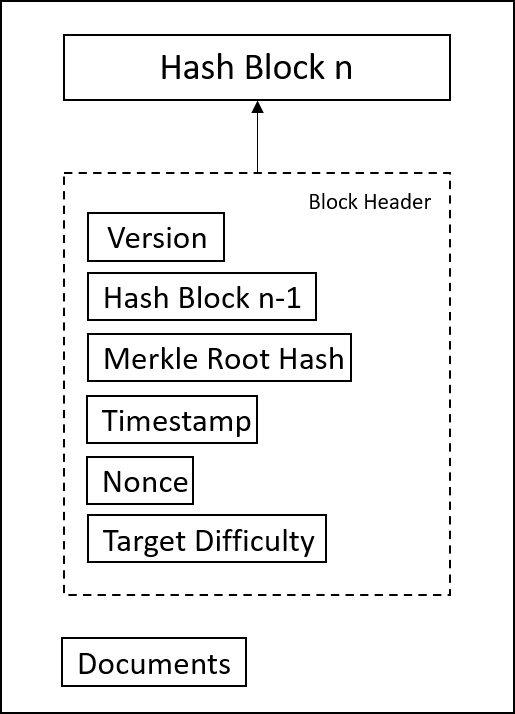
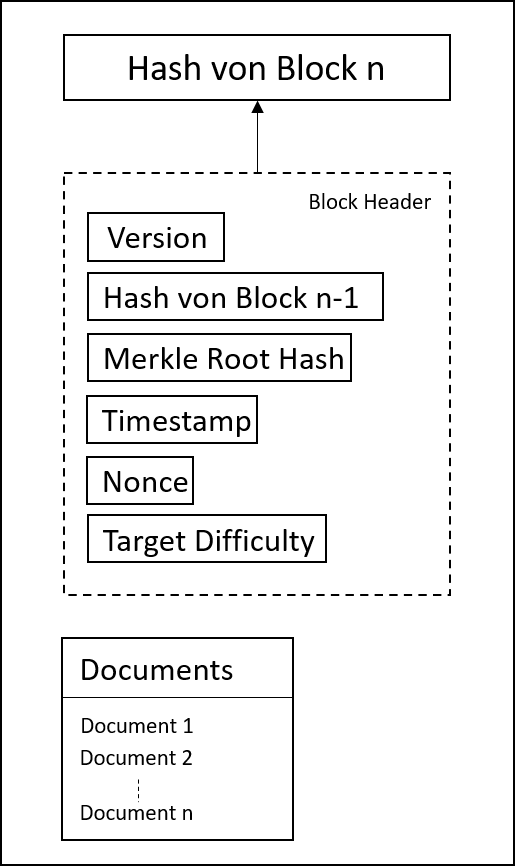
finished

diff --git a/content/06_chapter/02_Grundlagen.tex b/content/06_chapter/02_Grundlagen.tex
@@ -1,50 +1,94 @@
 \chapter{Grundlagen}
 
-Um den technischen Aufbau und die dahinterliegenden Konzepte zu verstehen und in den Zusammenhang einer Blockchain einordnen zu können, wird im folgenden Kapitel auf einige Grundlagen eingegangen, die für den weiteren Verlauf dieser Seminararbeit unabdingbar sind.
+Um den technischen Aufbau und die dahinterliegenden Konzepte zu verstehen und in den Zusammenhang einer Blockchain einordnen zu können, wird im folgenden Kapitel auf einige Grundlagen eingegangen, die für den weiteren Verlauf dieser Seminararbeit unabdingbar sind. Um den Rahmen dieser Seminararbeit nicht zu sprengen, wird vorausgesetzt, dass ein gewisses Grundverständnis bezüglich Hash-Funktionen und digitaler Signaturen vorhanden ist. Andernfalls kann dieses Grundverständnis in der zitierten Quelle \footnote{\parencite{Raikwar.2019}} aufgebaut werden.
 
-\section{Hash-Funktion}\label{sec:hash-funktion}
-Eine Hash-Funktion ist eine Funktion, die eine willkürlich lange Zeichenfolge entgegennimmt und eine Ausgabe erzeugt, die eine festgelegte Länge besitzt \footnote{\parencite[vgl.][S. 159f]{Damgard.1999}}. Ändert sich ein Zeichen des Eingabewertes, wird ein völlig unterschiedlicher Ausgabewert zurückgegeben. Dabei muss eine solche Hash-Funktion einige Eigenschaften erfüllen:
+% \section{Hash-Funktion}\label{sec:hash-funktion}
+% Eine Hash-Funktion ist eine Funktion, die eine willkürlich lange Zeichenfolge entgegennimmt und eine Ausgabe erzeugt, die eine festgelegte Länge besitzt \footnote{\parencite[vgl.][S. 159f]{Damgard.1999}}. Ändert sich ein Zeichen des Eingabewertes, wird ein völlig unterschiedlicher Ausgabewert zurückgegeben. Dabei muss eine solche Hash-Funktion einige Eigenschaften erfüllen:
 
-\begin{itemize}
-    \item Kollisionsresistenz: Es muss nahezu unmöglich sein, zwei Eingabewerte $a$ und $b$ zu finden, die unter Verwendung derselben Hash-Funktion $H(x)$ den gleichen Ausgabewert $H(a) = y$ und $H(b) = y$ erzeugen \footnote{\parencite[vgl.][S. 3]{Raikwar.2019}}.
-    \item Einwegfunktion: Für einen generierten Ausgabewert $y$ muss es nahezu unmöglich sein, einen Eingabewert $a$ zu finden, der die Gleichung $H(a) = y$ erfüllt. Ferner muss es nahezu unmöglich sein, für einen gegebenen Eingabewert $a$ und einem daraus generierten Ausgabewert $y = H(a)$ einen zweiten Eingabewert $b$ zu finden, der den Ausgabewert $y = H(b)$ erzeugt \footnote{\parencite[vgl.][S. 3]{Raikwar.2019}}.
-\end{itemize}
+% \begin{itemize}
+%     \item Kollisionsresistenz: Es muss nahezu unmöglich sein, zwei Eingabewerte $a$ und $b$ zu finden, die unter Verwendung derselben Hash-Funktion $H(x)$ den gleichen Ausgabewert $H(a) = y$ und $H(b) = y$ erzeugen \footnote{\parencite[vgl.][S. 3]{Raikwar.2019}}.
+%     \item Einwegfunktion: Für einen generierten Ausgabewert $y$ muss es nahezu unmöglich sein, einen Eingabewert $a$ zu finden, der die Gleichung $H(a) = y$ erfüllt. Ferner muss es nahezu unmöglich sein, für einen gegebenen Eingabewert $a$ und einem daraus generierten Ausgabewert $y = H(a)$ einen zweiten Eingabewert $b$ zu finden, der den Ausgabewert $y = H(b)$ erzeugt \footnote{\parencite[vgl.][S. 3]{Raikwar.2019}}.
+% \end{itemize}
 
-Solche Hash-Funktionen werden im Zusammenhang einer Blockchain dazu benutzt, um das kryptografische Rätsel beim Proof of Work von Bitcoin zu lösen, oder die privaten und öffentlichen Schlüssel der Verschlüsselung zu verwenden \footnote{\parencite[vgl.][S. 4]{Raikwar.2019}}. Wie diese Verschlüsselung genau funktioniert, wird in der nächsten Sektion erklärt.
+% Solche Hash-Funktionen werden im Zusammenhang einer Blockchain dazu benutzt, um das kryptografische Rätsel beim Proof of Work von Bitcoin zu lösen, oder die privaten und öffentlichen Schlüssel der Verschlüsselung zu verwenden \footnote{\parencite[vgl.][S. 4]{Raikwar.2019}}. Wie diese Verschlüsselung genau funktioniert, wird in der nächsten Sektion erklärt.
 
-\section{Verschlüsselung}\label{sec:verschluesselung}
-Die Verschlüsselung, die bei einer Blockchain, beziehungsweise bei Bitcoin, zugrunde liegt ist die asymmetrische Verschlüsselung. Bei dieser Art von Verschlüsselung existieren zwei verschiedene Schlüssel: der öffentliche und der private Schlüssel \footnote{\parencite[vgl.]{entwickler.de.NaN}}. Jedoch wird diese Art von Verschlüsselung nicht verwendet, um eine Transaktion oder einen Block innerhalb der Blockchain zu verschlüsseln, sondern zu signieren \footnote{\parencite[vgl.][S. 11]{Raikwar.2019}}. Wie genau diese Signierung funktioniert, kann mit dem folgenden Bild veranschaulicht werden:
+% \section{Verschlüsselung}\label{sec:verschluesselung}
+% Die Verschlüsselung, die bei einer Blockchain, beziehungsweise bei Bitcoin, zugrunde liegt ist die asymmetrische Verschlüsselung. Bei dieser Art von Verschlüsselung existieren zwei verschiedene Schlüssel: der öffentliche und der private Schlüssel \footnote{\parencite[vgl.]{entwickler.de.NaN}}. Jedoch wird diese Art von Verschlüsselung nicht verwendet, um eine Transaktion oder einen Block innerhalb der Blockchain zu verschlüsseln, sondern zu signieren \footnote{\parencite[vgl.][S. 11]{Raikwar.2019}}. Wie genau diese Signierung funktioniert, kann mit dem folgenden Bild veranschaulicht werden:
+
+% \begin{figure}[h]
+%     \begin{centering}
+%         \includegraphics[width=0.7\linewidth]{Signatur_Signer.png}
+%         \caption[Ablauf Signieren]{Ablauf Signieren \footnotemark}
+%         \label{fig:ablauf-signieren}
+%     \end{centering}
+% \end{figure}
+% \footnotetext{\parencite[vgl.][S. 11]{Raikwar.2019}}
+
+% Der Ersteller (Person A) eines Blocks oder einer Transaktion generiert ein Schlüsselpaar mit einem privaten und einem öffentlichen Schlüssel. Als erstes hasht Person A seine Transaktion und verschlüsselt diese mit seinem privaten Schlüssel. Diese signiert er mit der Signatur und versendet die signierte Transaktion, die ebenfalls den öffentlichen Schlüssel beinhaltet, an das Netzwerk \footnote{\parencite[vgl.][]{entwickler.de.NaN}}
+
+% \begin{figure}[h]
+%     \begin{centering}
+%         \includegraphics[width=1.0\linewidth]{Signatur_Verifier.png}
+%         \caption[Ablauf Verifizieren]{Ablauf Verifizieren \footnotemark}
+%         \label{fig:ablauf-verifizieren}
+%     \end{centering}
+% \end{figure}
+% \footnotetext{\parencite[vgl.][S. 11]{Raikwar.2019}}
+
+% Anschließend muss verifiziert werden, ob die Transaktion während des Übermittelns nicht verändert wurde. Wie bereits in \vref*{sec:hash-funktion} erklärt wurde, muss sich beispielsweise nur der Betrag der Transaktion verändern, damit der Hash nicht mehr mit dem originalen Hash übereinstimmt. Dafür entnimmt ein Verifizierer (Person B) einerseits den öffentlichen Schlüssel aus der signierten Transaktion und entschlüsselt die digitale Signatur, um somit den ursprünglichen Hash zu erhalten. Andererseits hasht Person B die Transaktion mit derselben Hash-Funktion, die bereits von Person A verwendet wurde. Gleichzeitig kann auch sichergestellt werden, dass die signierte Transaktion wirklich von Person A stammt, da die digitale Signatur ansonsten nicht mit dem privaten Schlüssel entschlüsselt werden könnte. Sind die beiden Hash-Werte identisch, ist die Transaktion valide. Falls nicht, wird diese verworfen \footnote{\parencite[vgl.][]{entwickler.de.NaN}}.
+
+
+
+
+
+\section{Aufbau eines Blocks}\label{sec:aufbau-eines-blocks}
+Die Datengrundlage einer Blockchain wird mit Blöcken gebildet, die Teil der Blockchain sind. Diese Blöcke verweisen einerseits auf den benachbarten Block der Chain und andererseits auf die Daten, die in diesem Block gespeichert werden können \footnote{\parencite[vgl.][S. 18]{Fill.2020b}}. Wie diese Daten genau gespeichert werden, wird in \vref*{sec:merkle-baum} beschrieben.
+ Der Aufbau eines Blocks kann mit \vref{fig:block-aufbau} erläutert werden:
 
 \begin{figure}[h]
     \begin{centering}
-        \includegraphics[width=0.7\linewidth]{Signatur_Signer.png}
-        \caption[Ablauf Signieren]{Ablauf Signieren \footnotemark}
-        \label{fig:ablauf-signieren}
+        \includegraphics[width=0.4\linewidth]{Block_Aufbau.png}
+        \caption[Aufbau eines Blocks]{Aufbau eines Blocks \footnotemark}
+        \label{fig:block-aufbau}
     \end{centering}
 \end{figure}
-\footnotetext{\parencite[vgl.][S. 11]{Raikwar.2019}}
+\footnotetext{\parencite[vgl.][S. 4]{Raikwar.2019}}
 
-Der Ersteller (Person A) eines Blocks oder einer Transaktion generiert ein Schlüsselpaar mit einem privaten und einem öffentlichen Schlüssel. Als erstes hasht Person A seine Transaktion und verschlüsselt diese mit seinem privaten Schlüssel. Diese signiert er mit der Signatur und versendet die signierte Transaktion, die ebenfalls den öffentlichen Schlüssel beinhaltet, an das Netzwerk \footnote{\parencite[vgl.][]{entwickler.de.NaN}}
+Als \textbf{Version} wird lediglich eine Version des aktuell eingesetzten Protokolls gemeint. Das Protokoll enthält Informationen über die Blockgröße, die Höhe der Belohnung eines Miners und weitere Informationen.
+Damit die Blockchain als fortlaufende Kette gespeichert werden kann, muss der aktuelle Block stets auf seinen Vorgänger referenzieren. Dieser wird als Hash im Feld \textbf{Hash Block n-1} angegeben. Durch die Referenz des vorherigen Blocks entsteht eine Verkettung der einzelnen Blöcke innerhalb der Blockchain \footnote{\parencite[vgl.][S. 137]{Bruhl.2017}}. Diese Verkettung ist in \vref*{fig:blockchain-aufbau} abgebildet. Ohne die Referenz auf den vorherigen Block könnte es keine Aneinanderreihung der Blöcke geben, somit können alle fortlaufenden Blöcke aufeinander aufbauen.
+In dem \textbf{Merkle-Root Hash} werden alle Transaktionen des Blocks in einem Hash gespeichert. Wie das umgesetzt wird, ist in \vref*{sec:merkle-baum} beschrieben. In der \textbf{Timestamp} wird er Zeitpunkt angegeben, bei dem der Block erstellt wird. Dieser Wert ist in Sekunden ab dem 1.1.1970 gespeichert.
+In der \textbf{Difficulty} wird gespeichert, wie klein der Hash des aktuell erzeugten Blocks sein muss. Um dies zu bewerkstelligen, muss ein Hash erzeugt werden, der eine gewissen Anzahl an führenden Nullen besitzt. Je kleiner die Difficulty ist, desto schwerer ist es auch, einen Hash zu finden, der das Kriterium erfüllt. 
+Da alle restlichen Komponenten des Blocks unveränderbar sind, bleibt nur noch die \textbf{Nonce} (Number only used once), um den Hash des Blocks zu beeinflussen. Sie muss von dem Miner, beschrieben in \vref*{sec:miner}, festgelegt werden, dass der erzeugte Hash den Bedingungen der Difficulty gerecht wird \footnote{\parencite[vgl.][]{Vidrih.29.12.2018}}. Wie genau der Ablauf des Minings funktioniert, wird in \vref{sec:proof-of-work} erläutert.
+
+
+
+\section{Miner}\label{sec:miner}
+Als Miner werden Teilnehmer des Blockchain-Netzwerkes bezeichnet, die Rechenleistung ihrer PCs oder anderen Geräten zur Verfügung stellen, um Daten, die in die Blockchain aufgenommen werden zu validieren - beispielsweise ob eine Person, die Bitcoins versenden will, diese auch besitzt - und diese in Blöcken zu speichern und an die bestehende Kette anzuhängen. Da für das Erstellen von neuen Blöcken Belohnungen in Form von z.B. Bitcoins vergeben werden, entsteht ein interner Wettbewerb zwischen den Minern. Dieser Wettbewer wird in \vref*{sec:proof-of-work} erläutert. Wer diesen Wettbewerb gewinnt, gewinnt auch die Belohnung.
+
+\section{Allgemeiner Aufbau}\label{sec:allgemeiner-aufbau}
+Im Allgemeinen kann eine Blockchain mit einem Datenspeicher beschrieben werden, der gleichzeitig auf mehreren Computern der am Netzwerk Teilnehmenden gespeichert ist. Die Datenstrukturen, die auf den Rechnern gespeichert werden, sind zeitlich protokolliert und somit gut nachvollziehbar und schwer veränderlich \footnote{\parencite[vgl.][]{BaFin.25.10.2021}}.
+In dem verteilten Netz kann ein Teilnehmer nun nicht nur den ersten Block der Blockchain und dessen Informationen betrachten, sondern kann wie in einem digitalen Register alle Einträge durchblättern, um Daten einzusehen, die zu einem späteren Zeitpunkt in der Blockchain gespeichert wurden \footnote{\parencite[vgl.][S. 18]{Fill.2020}}.
+
+Durch die Verteilung der Daten auf mehrere Knoten des Netzwerks hat jeder Teilnehmer die gleiche Chance, Daten zu ergänzen oder Änderungen zu dokumentieren. Analog dazu werden Änderungen für jeden Teilnehmer ersichtlich und können im Falle von Manipulationen oder korrupten Daten sofort abgewiesen werden \footnote{\parencite[vgl][]{BaFin.25.10.2021}}.
+
+Die Tatsache, dass die Daten einer Blockchain verteilt auf das Netzwerk gespeichert sind, bringt einige Vorteile mit sich: Einerseits erhöht sich die Verfügbarkeit im Falle eines Ausfalls von einzelnen Knoten. Andererseits existiert keine zentrale Kontrollinstanz, die das Netzwerk überwacht oder Opfer eines Angriffs werden könnte \footnote{\parencite[vgl][]{BaFin.25.10.2021}}.
 
 \begin{figure}[h]
     \begin{centering}
-        \includegraphics[width=1.0\linewidth]{Signatur_Verifier.png}
-        \caption[Ablauf Verifizieren]{Ablauf Verifizieren \footnotemark}
-        \label{fig:ablauf-verifizieren}
+        \includegraphics[width=0.8\linewidth]{Blockchain_Aufbau.png}
+        \caption{Aufbau einer Blockchain}
+        \label{fig:blockchain-aufbau}
     \end{centering}
 \end{figure}
-\footnotetext{\parencite[vgl.][S. 11]{Raikwar.2019}}
 
-Anschließend muss verifiziert werden, ob die Transaktion während des Übermittelns nicht verändert wurde. Wie bereits in \vref*{sec:hash-funktion} erklärt wurde, muss sich beispielsweise nur der Betrag der Transaktion verändern, damit der Hash nicht mehr mit dem originalen Hash übereinstimmt. Dafür entnimmt ein Verifizierer (Person B) einerseits den öffentlichen Schlüssel aus der signierten Transaktion und entschlüsselt die digitale Signatur, um somit den ursprünglichen Hash zu erhalten. Andererseits hasht Person B die Transaktion mit derselben Hash-Funktion, die bereits von Person A verwendet wurde. Gleichzeitig kann auch sichergestellt werden, dass die signierte Transaktion wirklich von Person A stammt, da die digitale Signatur ansonsten nicht mit dem privaten Schlüssel entschlüsselt werden könnte. Sind die beiden Hash-Werte identisch, ist die Transaktion valide. Falls nicht, wird diese verworfen \footnote{\parencite[vgl.][]{entwickler.de.NaN}}.
+
 
 \section{Merkle-Baum}\label{sec:merkle-baum}
 Jeder Block in einer Blockchain besteht unter anderem aus mehreren neuen Transaktionen oder Dokumenten, die in einem separaten Teil innerhalb des Blocks gespeichert werden. Alle Informationen über die Daten werden dabei nicht direkt im Header des Blocks, sondern in einen sogenannten Merkle-Hash gespeichert \footnote{\parencite[vgl.][S. 137]{Bruhl.2017}}.
 
-Um einen solchen Hashwert zu erhalten, werden jeweils zwei benachbarte Kopien von den Daten auf der untersten Ebene des Merkle-Baums zusammengefasst und gehasht. In der nächsten Ebene werden erneut die benachbarten Hashes zu einem Hash zusammengefasst, bis sich der endgültige Merkle-Hash ergibt \footnote{\parencite[vgl.][S. 8f]{Fill.2020}}.
+Um einen solchen Hashwert zu erhalten, werden jeweils zwei benachbarte Kopien von den Daten auf der untersten Ebene des Merkle-Baums gemäß \cref{fig:Merkle-Baum} zusammengefasst und gehasht. In der nächsten Ebene werden erneut die benachbarten Hashes zu einem Hash zusammengefasst, bis sich der endgültige Merkle-Hash ergibt \footnote{\parencite[vgl.][S. 8f]{Fill.2020}}.
 
 Anhand von einem Merkle-Hash kann überprüft werden, ob es eine noch so kleine Änderung in einem der Dokumente gegeben hat, da eine Veränderung eines Dokuments unmittelbar eine Änderung aller damit verbundenen Hashes und des Merkle-Hash mit sich zieht. Möchte nun herausgefunden werden, ob ein Dokument nachträglich verändert wurde, müssen nicht alle Dokumente auf etwaige Veränderungen analysiert werden, sondern nur deren Hashes. Werden dabei die Hashes vor und nach der Änderung der Dokumente verglichen, kann festgestellt werden, in welchem Dokument die Änderungen vorgenommen wurden. Anhand von dieser Methode kann auch festgestellt werden, ob ein bestimmtes Dokument Teil der Merkle-Baums ist \footnote{\parencite[vgl.][S. 9ff]{Fill.2020}}.
-
-In der folgenden Abbildung ist der Aufbau eines solchen Merkle-Baums dargestellt:
 
 
 \begin{figure}[h]
@@ -57,22 +101,5 @@ In der folgenden Abbildung ist der Aufbau eines solchen Merkle-Baums dargestellt
 \footnotetext{\parencite[vgl.][S. 10]{Fill.2020}}
 
 
-\section{Aufbau eines Blocks}\label{sec:aufbau-eines-blocks}
-Wie bereits in \vref*{sec:merkle-baum} beschrieben, besteht ein Block in einer Blockchain unter anderem aus dem Merkle-Hash aller im Block befindlichen Dokumente. Ferner kann der Aufbau eines Blocks mit \vref{fig:block-aufbau} erläutert werden:
 
-
-\begin{figure}[h]
-    \begin{centering}
-        \includegraphics[width=0.4\linewidth]{Block_Aufbau.png}
-        \caption[Block Aufbau]{Block Aufbau \footnotemark}
-        \label{fig:block-aufbau}
-    \end{centering}
-\end{figure}
-\footnotetext{\parencite[vgl.][S. 4]{Raikwar.2019}}
-
-Als \textbf{Version} wird lediglich eine Version des aktuell eingesetzten Protokolls gemeint. Die Version ist für den Miner jedoch irrelevant.
-Damit die Blockchain als fortlaufende Kette gespeichert werden kann, muss der aktuelle Block stets auf seiner Vorgänger referenzieren. Dieser wird als Hash im Feld \textbf{Hash Block n-1} angegeben. Ohne diese Komponente könnte es keine Aneinanderreihung der Blöcke geben, somit können alle fortlaufenden Blöcke aufeinander aufbauen.
-In dem \textbf{Merkle-Root Hash} werden, wie bereits in \cref{sec:merkle-baum} erläutert, alle Transaktionen des Blocks in einem Hash gespeichert. In der \textbf{Timestamp} wird er Zeitpunkt angegeben, bei dem der Block erstellt wird. Dieser Wert ist in Sekunden ab dem 1.1.1970 gespeichert.
-In der \textbf{Difficulty} wird gespeichert, wie kleine der aus dem aktuell erzeugten Block sein muss. Um dies zu bewerkstelligen, muss ein Hash erzeugt werden, der eine gewissen Anzahl an führenden Nullen besitzt. Je kleiner die Difficulty ist, desto schwerer ist es auch, einen Hash zu finden, der das Kriterium erfüllt. 
-Da alle restlichen Komponenten des Blocks unveränderbar sind, bleibt nur noch die \textbf{Nonce}, um den Hash des Blocks zu beeinflussen. Sie muss von dem Miner festgelegt werden, dass der erzeugte Hash den Bedingungen der Difficulty gerecht wird \footnote{\parencite[vgl.][]{Vidrih.29.12.2018}}. Wie genau der Ablauf des Minings funktioniert, wird in \vref{sec:proof-of-work} erläutert.
 

diff --git a/content/06_chapter/03_Aufbau_Blockchain.tex b/content/06_chapter/03_Aufbau_Blockchain.tex
@@ -1,17 +1,17 @@
-\chapter{Aufbau einer Blockchain}\label{chp:aufbau-einer-blockchain}
+\chapter{Hinzufügen von neuen Blöcken}\label{chp:aufbau-einer-blockchain}
 
-\section{Allgemeiner Aufbau}\label{sec:allgemeiner-aufbau}
-Im Allgemeinen kann eine Blockchain mit einem Datenspeicher beschrieben werden, der gleichzeitig auf mehreren Computern der am Netzwerk Teilnehmenden gespeichert ist. Die Datenstrukturen, die auf den Rechnern gespeichert werden, sind zeitlich protokolliert und somit gut nachvollziehbar und schwer veränderlich \footnote{\parencite[vgl.][]{BaFin.25.10.2021}}.
+% \section{Allgemeiner Aufbau}\label{sec:allgemeiner-aufbau}
+% Im Allgemeinen kann eine Blockchain mit einem Datenspeicher beschrieben werden, der gleichzeitig auf mehreren Computern der am Netzwerk Teilnehmenden gespeichert ist. Die Datenstrukturen, die auf den Rechnern gespeichert werden, sind zeitlich protokolliert und somit gut nachvollziehbar und schwer veränderlich \footnote{\parencite[vgl.][]{BaFin.25.10.2021}}.
 
-Durch die Verteilung der Daten auf mehrere Knoten des Netzwerks hat jeder Teilnehmer die gleiche Chance, Daten zu ergänzen oder Änderungen zu dokumentieren. Analog dazu werden Änderungen für jeden Teilnehmer ersichtlich und können im Falle von Manipulationen oder korrupten Daten sofort abgewiesen werden \footnote{\parencite[vgl][]{BaFin.25.10.2021}}.
+% Durch die Verteilung der Daten auf mehrere Knoten des Netzwerks hat jeder Teilnehmer die gleiche Chance, Daten zu ergänzen oder Änderungen zu dokumentieren. Analog dazu werden Änderungen für jeden Teilnehmer ersichtlich und können im Falle von Manipulationen oder korrupten Daten sofort abgewiesen werden \footnote{\parencite[vgl][]{BaFin.25.10.2021}}.
 
-Die Tatsache, dass die Daten einer Blockchain verteilt auf das Netzwerk gespeichert sind, bringt einige Vorteile mit sich: Einerseits erhöht sich die Verfügbarkeit im Falle eines Ausfalls von einzelnen Knoten. Andererseits existiert keine zentrale Kontrollinstanz, die das Netzwerk überwacht oder Opfer eines Angriffs werden könnte \footnote{\parencite[vgl][]{BaFin.25.10.2021}}.
+% Die Tatsache, dass die Daten einer Blockchain verteilt auf das Netzwerk gespeichert sind, bringt einige Vorteile mit sich: Einerseits erhöht sich die Verfügbarkeit im Falle eines Ausfalls von einzelnen Knoten. Andererseits existiert keine zentrale Kontrollinstanz, die das Netzwerk überwacht oder Opfer eines Angriffs werden könnte \footnote{\parencite[vgl][]{BaFin.25.10.2021}}.
 
 Damit eine Blockchain fehlerfrei funktionieren kann, muss innerhalb des Netzwerks und zwischen den Teilnehmern ein Konsens-Algorithmus angewandt werden, der dazu beiträgt, dass alle Teilnehmer des Blockchain-Netzwerkes die gleichen Daten auf ihren Rechnern gespeichert haben. Der Konsens in einer Blockchain ist somit eine entscheidende Komponente innerhalb des Blockchain-Netzwerks, um die gespeicherten Daten in Form eines dezentralen Datenspeichers zu halten \footnote{\parencite[vgl.][S. 5]{Raikwar.2019}}. 
 
 \section{Proof-of-Work (PoW)}\label{sec:proof-of-work}
-Ein solcher Konsens-Algorithmus kann mithilfe von Proof-of-Work umgesetzt werden. Dieser läuft so ab, dass der Miner, also derjenige, der für die Erstellung eines neuen Blocks zuständig ist, eines Blocks die Nonce so auswählt, dass die Bedingung der Difficulty erfüllt ist. Wurde ein Wert gefunden, der dieses Kriterium erfüllt, kann der Block nicht mehr geändert werden, ohne eine erneute Nonce für diesen Block und alle zuvor gespeicherten Blöcke zu finden \footnote{\parencite[vgl.][S. 1546]{Bach.52018}}.
+Ein solcher Konsens-Algorithmus kann mithilfe von Proof-of-Work umgesetzt werden. Dieser läuft so ab, dass der Miner, also derjenige, der für die Erstellung eines neuen Blocks zuständig ist, die Nonce des zu erstellenden Blocks so auswählt, dass die Bedingung der Difficulty erfüllt ist. Dabei muss der Miner so lange nach einem Wert für die Nonce suchen, bis die Bedingung der Difficulty erfüllt ist. Wurde ein Wert gefunden, der dieses Kriterium erfüllt, kann der Block nicht mehr geändert werden, ohne eine erneute Nonce für diesen Block und alle zuvor gespeicherten Blöcke zu finden \footnote{\parencite[vgl.][S. 1546]{Bach.52018}}.
 
 
-Um einen Block hinzufügen zu können, muss ein Miner Transaktionen aus dem Transaction-Pool, das ist der Ort, an dem alle noch nicht getätigten Transaktionen gespeichert werden, entnehmen und in einem Block speichern. Anschließend wird ein Führer bestimmt, der durch das Lösen des kryptografischen Puzzles, also dem Finden einer geeigneten Nonce, ausgesucht wird. Hat er die Nonce gefunden, erstellt er den Block mit dem daraus erzeugten Hash und verteilt ihn im gesamten Blockchain-Netzwerk. Danach können die verbleibenden Teilnehmer der Erstellung des Blocks entweder implizit oder explizit zustimmen. Bei einer expliziten Zustimmung finden mehrere Abstimmungen statt, bei der die restlichen Teilnehmer beteiligt sind. Je nach Ausgang dieser Abstimmungen wurde der Konsens erreicht und der neu erstellte Block wird bei jedem Teilnehmer an die Blockchain angehöngt. Eine implizite Zustimmung erfolgt dann, wenn die Teilnehmer den Block akzeptieren, indem sie ihn an ihre Blockchain anhängen. Dieses Vorgehen der impliziten Zustimmung wird auch als ``Nakamoto-Konsens'' bezeichnet \footnote{\parencite[vgl.][S. 5f]{Raikwar.2019}}.
+Um einen Block hinzufügen zu können, muss ein Miner Transaktionen aus dem Transaction-Pool, das ist der Ort, an dem alle noch nicht getätigten Transaktionen gespeichert werden, entnehmen und in einem Block speichern. Diese Transaktionen werden als Merkle-Hash in dem Block gespeichert. Anschließend wird ein Führer bestimmt, der durch das Lösen des kryptografischen Puzzles, also dem Finden einer geeigneten Nonce, ausgesucht wird. Hat er die Nonce gefunden, erstellt er den Block mit dem daraus erzeugten Hash und verteilt ihn im gesamten Blockchain-Netzwerk. Danach können die verbleibenden Teilnehmer der Erstellung des Blocks entweder implizit oder explizit zustimmen. Bei einer expliziten Zustimmung finden mehrere Abstimmungen statt, bei der die restlichen Teilnehmer beteiligt sind. Je nach Ausgang dieser Abstimmungen wurde der Konsens erreicht und der neu erstellte Block wird bei jedem Teilnehmer an die Blockchain angehöngt. Eine implizite Zustimmung erfolgt dann, wenn die Teilnehmer den Block akzeptieren, indem sie ihn an ihre Blockchain anhängen. Dieses Vorgehen der impliziten Zustimmung wird auch als ``Nakamoto-Konsens'' bezeichnet \footnote{\parencite[vgl.][S. 5f]{Raikwar.2019}}.
 

diff --git a/main.tex b/main.tex
@@ -18,7 +18,7 @@
 % -- Allgemeine Informationen zur Arbeit
 \newcommand{\titel}{Technische Umsetzung einer Blockchain}
 \newcommand{\titelheader}{Technische Umsetzung einer Blockchain}
-\newcommand{\arbeit}{Seminararbeit Integrationsseminar}
+\newcommand{\arbeit}{Seminararbeit}
 
 % -- Persönliche Angaben und DHBW
 \newcommand{\vorname}{Johannes}
@@ -35,7 +35,7 @@
 \newcommand{\abgabeOrt}{Mannheim}						
 \newcommand{\abgabeDatum}{2021-11-04} 								% Datum in dem Format yyyy-mm-dd angeben
 \newcommand{\bearbeitungszeitraumBeginn}{2021-10-14} 				% Datum in dem Format yyyy-mm-dd angeben
-\newcommand{\bearbeitungszeitraumEnde}{2020-09-08} 					% Datum in dem Format yyyy-mm-dd angeben
+\newcommand{\bearbeitungszeitraumEnde}{2021-11-04} 					% Datum in dem Format yyyy-mm-dd angeben
 
 % -- Angaben zu der Ausbildungsfirma
 \newcommand{\firmaName}{SAP SE}
@@ -121,12 +121,12 @@
 	}
 
 	\listoffigures                         							% Erzeugen des Abbildungsverzeichnisses 
-	\listoftables                          							% Erzeugen des Tabellenverzeichnisses
-    \lstlistoflistings                     							% Erzeugen des Listenverzeichnisses
+	%\listoftables                          							% Erzeugen des Tabellenverzeichnisses
+    %\lstlistoflistings                     							% Erzeugen des Listenverzeichnisses
     \setcounter{savepage}{\value{page}}								% Römische Seitenzahl wird für später gespeichert
 
 	% -- Liste der zu erledigenden Punkte. Wichtig: Diese Liste muss vor der endgültigen Abgabe auskommentiert werden!
-	\listoftodos
+	%\listoftodos
     
     % -- Einbinden von den verschiedenen Kapiteln
     \cleardoublepage												% Beendet eine Seite
@@ -164,12 +164,12 @@
 	\printglossary[style=altlist,title=Glossar]						% Glossar wird erstellt
 
     % -- Einbinden von Anhängen
-    \begin{appendices}
-		\include{content/07_appendix/index}
-	\ifthenelse{\boolean{abgabeVersion}}
-	{}
-	{
-		\include{content/00_LaTeX/exampleProject/07_Appendix}
-	} 	
-    \end{appendices}
+    % \begin{appendices}
+	% 	\include{content/07_appendix/index}
+	% \ifthenelse{\boolean{abgabeVersion}}
+	% {}
+	% {
+	% 	\include{content/00_LaTeX/exampleProject/07_Appendix}
+	% } 	
+    % \end{appendices}
 \end{document}

diff --git a/content/06_chapter/04_Hinzufügen_Blöcke.tex b/content/06_chapter/04_Hinzufügen_Blöcke.tex
@@ -19,5 +19,8 @@ Jedoch muss dabei beachtet werden, dass die UTXOs nicht aufgeteilt werden könne
 
 In \vref{fig:transaktion} ist ein solches Vorgehen abgebildet. Bei der Transaktion 2 sendet die Absenderadresse 3 etwa 0.9882 BTC (1) an die Zieladresse 4. Da der UTXO 1 jedoch 0.9882 BTC beträgt und nur etwa 0.0099 BTC an die Zieladresse 4 gesendet werden soll, wird der Rest erneut als Output an die Absenderadresse 5 transferiert, welches dem Wallet entspricht, von dem der Input der Transaktion kam.
 
+\section{Ablauf einer Transaktion}\label{sec:ablauf-transaktion}
+Will nun eine Person Bitcoin versenden, wird eine Bitcoin-Adresse und ein privater sowie ein öffentlicher Schlüssel benötigt. Diese Komponenten bestehen aus einer Folge von Buchstaben und Zahlen. Im Gegensatz zu der Adresse und dem öffentlichen Schlüssel wird der private Schlüssel nicht preisgegeben \footnote{\parencite[vgl.][]{BTCACADEMY.08.03.2021b}}.
 
-\section{Locking Script und Unlocking Script}\label{sec:locking-unlocking}
+Nun wird die Transaktion mit den sämtlichen Daten aus \cref{sec:bestandteile-einer-transaktion} mit dem privaten Schlüssel signiert \footnote{\parencite[vgl.][]{BTCACADEMY.08.03.2021b}}. Der Empfänger dieser Transaktion muss den UTXO bei seiner nächsten Transaktion erneut signieren, um ihn bei dieser als Input zu verwenden. Bevor er diese Signatur nicht erstellt, ist der UTXO für den Empfänger noch gesperrt. Dies wird ``Locking Script'' genannt. Erst nachdem der Empfänger den Output signiert und als Input bei einer Transaktion angibt, wird dieser für ihn entsperrt (``Unlocking Script'') und zugänglich gemacht \footnote{\parencite[vgl.][]{entwickler.de.NaN}}. Anschließend kann die in der Transaktion hinterlegte Menge an die Zieladresse transferiert werden.
+

diff --git a/content/01_titlepage/titlepage.tex b/content/01_titlepage/titlepage.tex
@@ -10,7 +10,7 @@
 			\begin{minipage}{0.49\textwidth}
 				\flushleft
 				%\missingfigure[figheight=2.5cm, figcolor=white]{Insert company %logo here} 
-				\includegraphics[height=2.5cm]{images/logos/Logo_SAP.pdf} 
+				% \includegraphics[height=2.5cm]{images/logos/Logo_SAP.pdf} 
 			\end{minipage}
 			\hfill
 			\begin{minipage}{0.49\textwidth}
@@ -50,7 +50,7 @@
 		\begin{minipage}{0.49\textwidth}
 			\flushleft
 			%\missingfigure[figheight=2.5cm, figcolor=white]{Insert company %logo here} 
-			\includegraphics[height=2.5cm]{images/logos/Logo_SAP.pdf} 
+			% \includegraphics[height=2.5cm]{images/logos/Logo_SAP.pdf} 
 		\end{minipage}
 		\hfill
 		\begin{minipage}{0.49\textwidth}
@@ -72,9 +72,9 @@
 				\textbf{Abgabedatum}				\hspace{4.5cm}					& \printdate{\abgabeDatum}\\[0.2cm]
 				\textbf{Bearbeitungszeitraum}       				&  \daterange{\bearbeitungszeitraumBeginn}{\bearbeitungszeitraumEnde}\\[0.2cm]
 				\textbf{Matrikelnummer, Kurs} 					   	&  \matrikelnr, \kurs\\[0.2cm]
-				\textbf{Ausbildungsfirma}              					 &  \firmaName\\
-																						& \firmaStrasse \\
-																						& \firmaPlz\\[0.2cm]
+				% \textbf{Ausbildungsfirma}              					 &  \firmaName\\
+				% 																		& \firmaStrasse \\
+				% 																		& \firmaPlz\\[0.2cm]
 				% \textbf{Betreuer der Ausbildungsfirma}          &  \betreuerFirma\\[0.2cm]
 				\textbf{Gutachter der Dualen Hochschule}    &  \betreuerDhbw\\[0.2cm]
 			\end{tabular} 
